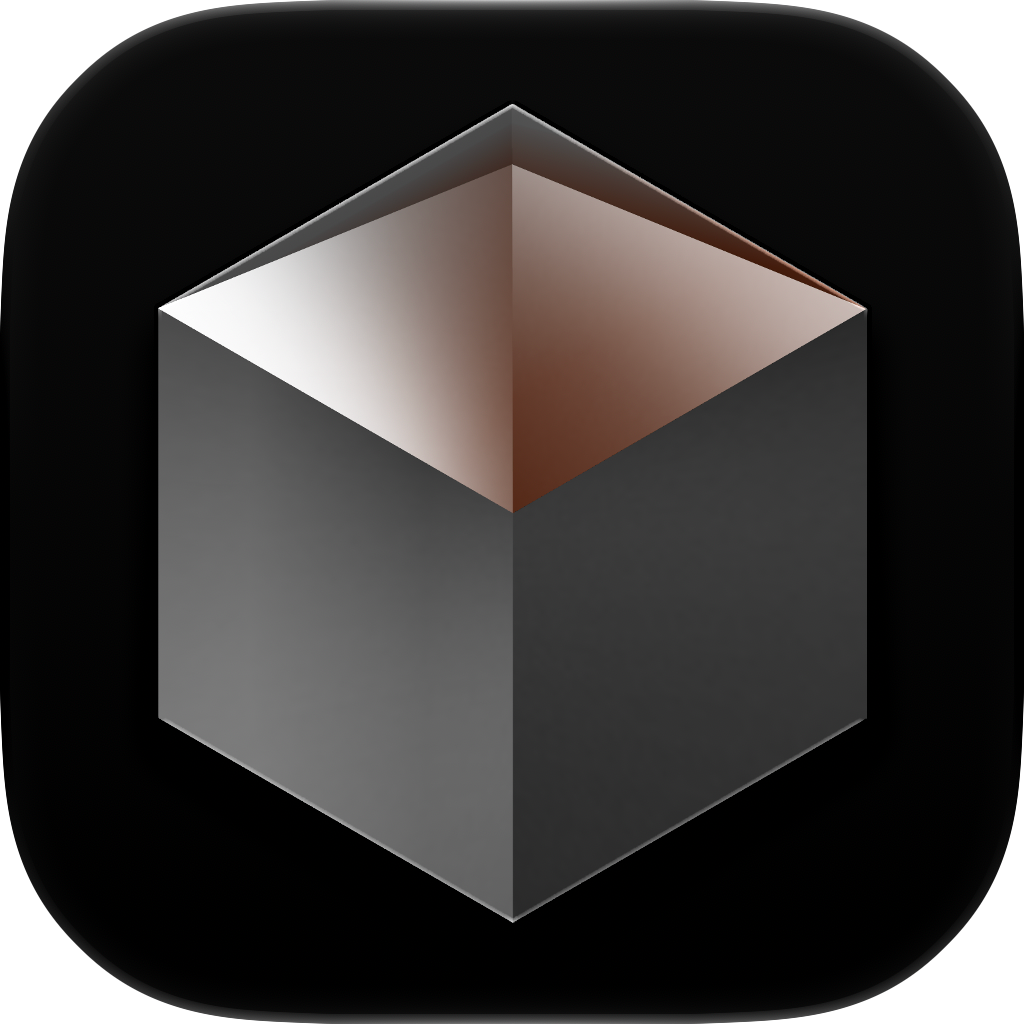
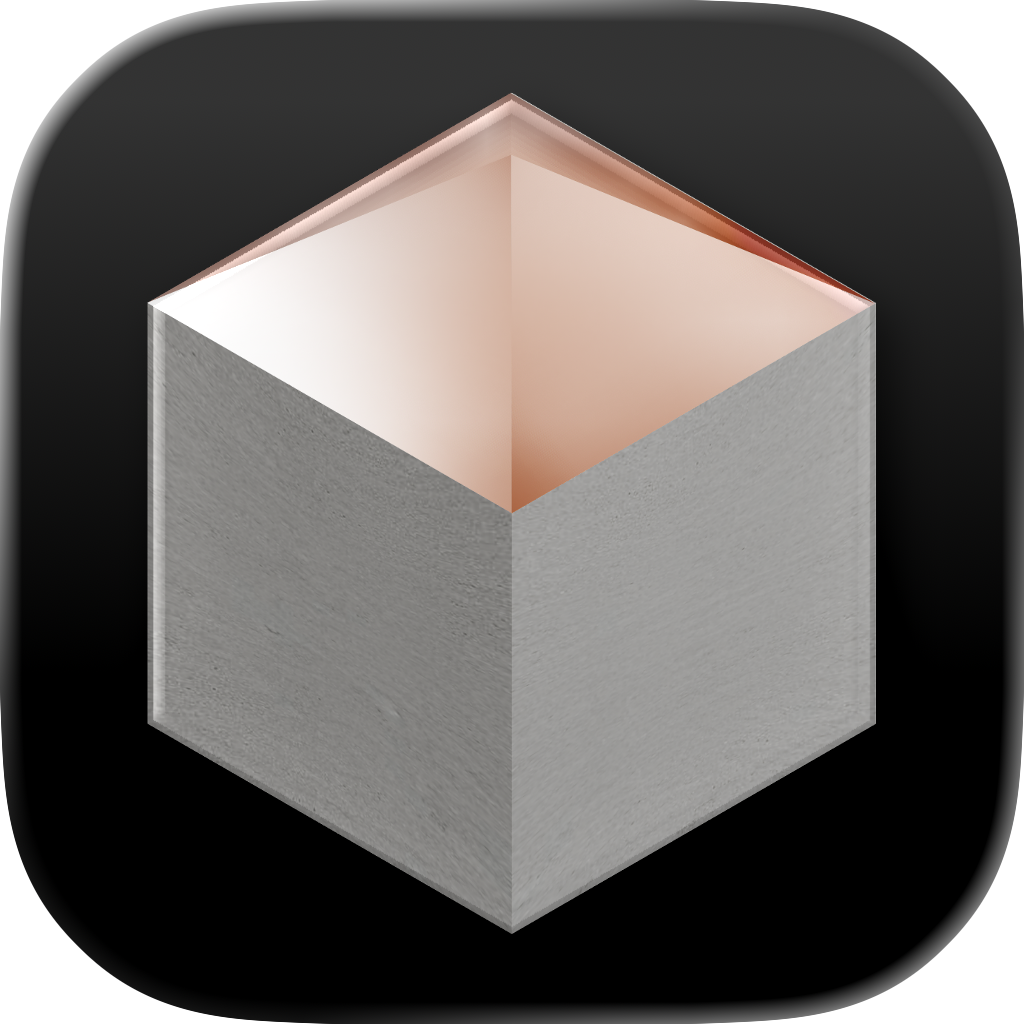
Expand inline comment agent stream height

diff --git a/src/styles.css b/src/styles.css
@@ -635,9 +635,9 @@ td.cell-sel { background: var(--diff-select-bg) !important; }
 /* agent card embedded in the composer (review-in-progress) */
 .agent-embedded { margin-top: 4px; padding-top: 8px; border-top: 1px dashed var(--border-subtle); }
 .agent-stream-inline-comment .agent-log {
-  height: 150px;
-  max-height: 150px;
-  min-height: 150px;
+  height: 250px;
+  max-height: 250px;
+  min-height: 250px;
 }
 .agent-pr-link { font-size: 12px; padding: 0; }
 

diff --git a/src/components/Findings.tsx b/src/components/Findings.tsx
@@ -179,7 +179,7 @@ export function FindingCard({ finding, pr }: { finding: ReviewFinding; pr: PrSum
           />
         )}
       </div>
-      {run && <AgentCard run={run} embedded defaultOpen />}
+      {run && <AgentCard run={run} embedded defaultOpen streamContext="inline-comment" />}
     </div>
   );
 }